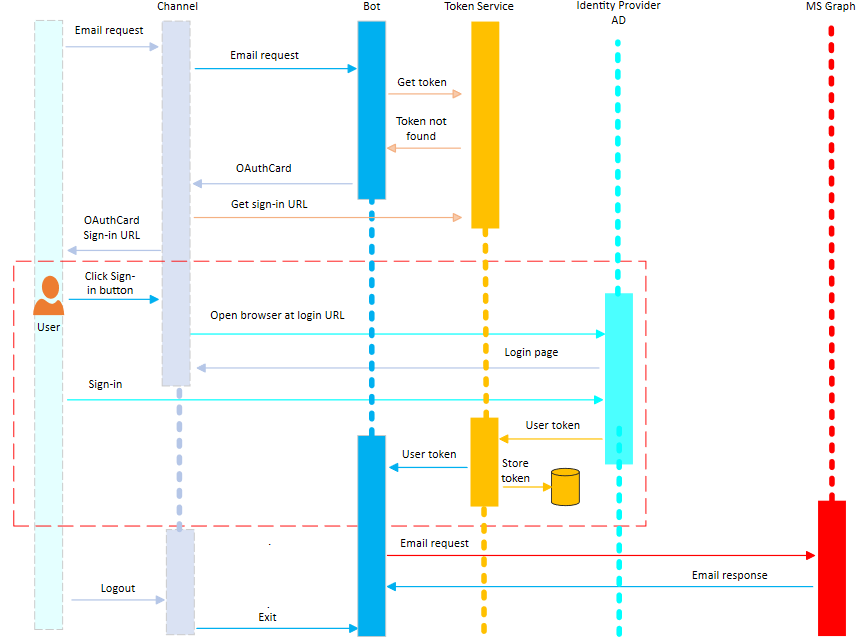
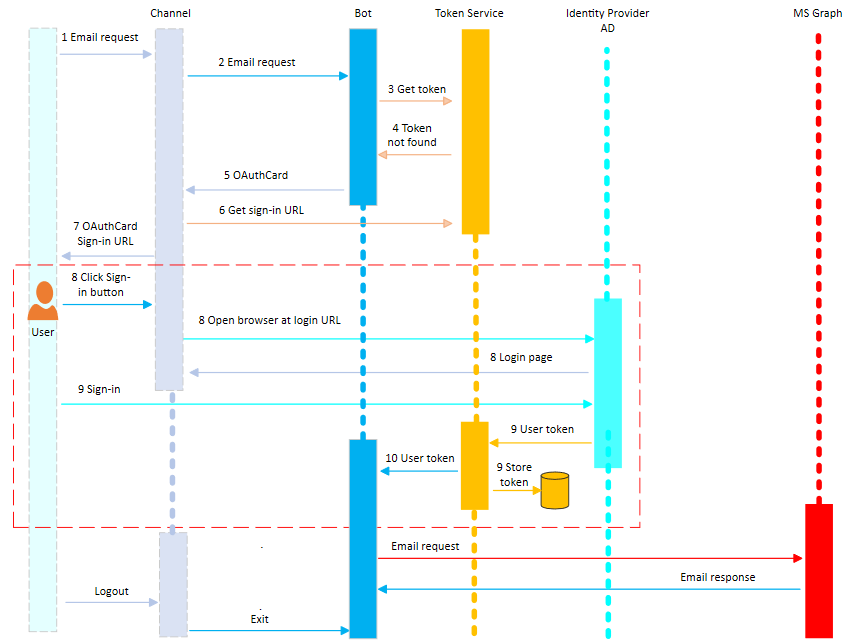
Added numbered steps to the tine sequence diagram
Made minor content fixes

Changed region(s): [[0.0, 0.0, 1.0, 0.9938]]

diff --git a/articles/v4sdk/bot-builder-concept-authentication.md b/articles/v4sdk/bot-builder-concept-authentication.md
@@ -68,7 +68,8 @@ The following picture shows the sequence of the user's interaction with a bot wh
 1. The user makes an email request to the bot.
 1. An activity with this message is sent from the user to the Bot Framework channel service. The channel service ensures that the `userid` field within the activity has been set and the message is sent to the bot.
 
-    User ID's are channel specific, such as the user's facebook ID or their SMS phone number.
+    > [!NOTE]
+    > User ID's are channel specific, such as the user's facebook ID or their SMS phone number.
 
 1. The bot makes a request to the Bot Framework Token Service asking if it already has a token for the UserId for the OAuth connection `GraphConnection`.
 1. Since this is the first time this user has interacted with the bot, the Bot Framework Token Service does not yet have a token for this user, and returns a *NotFound* result to the bot.
@@ -80,7 +81,7 @@ The following picture shows the sequence of the user's interaction with a bot wh
 1. The activity passes through the Bot Framework Channel Service, which calls into the Bot Framework Token Service to create a valid OAuth sign-in URL for this request. This sign-in URL is added to the OAuthCard and the card is returned to the user.
 1. The user is presented with a message to sign-in by clicking on the OAuthCard's sign-in button.
 1. When the user clicks the sign-in button, the channel service opens a web browser and calls out to the external service to load its sign-in page.
-1. The user signs-in to this page for the external service. Once complete, the external service completes the OAuth protocol exchange with the Bot Framework Token Service, resulting in the external service sending the Bot Framework Token Service the user token. The Bot Framework Token Service securely stores this token and sends an activity to the bot with this token.
+1. The user signs-in to this page for the external service. Then the external service completes the OAuth protocol exchange with the Bot Framework Token Service, resulting in the external service sending the Bot Framework Token Service the user token. The Bot Framework Token Service securely stores this token and sends an activity to the bot with this token.
 1. The bot receives the activity with the token and is able to use it to make calls against the MS Graph API.
 
 ## Securing the sign-in URL
